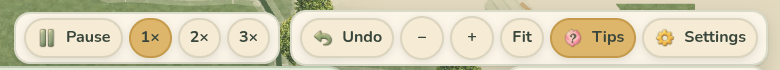
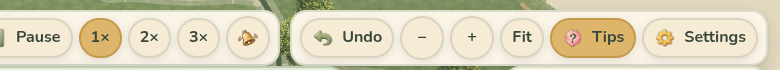
Sound controls: top-bar mute toggle (M), music and effects volume sliders, saved settings
- Settings gain muted, musicVolume and sfxVolume (0-100, clamped on load, defaulted for
  older saves). The audio engine applies levels to both buses; mute silences everything
  without touching the levels; the effects slider plays a sample on release.
- Speaker button in the top bar beside the speed buttons with aria-pressed and spoken
  labels; M toggles it.
- New strings in copy.json extra.sound and COPY.md; check_copy.py passes again.
- pointercheck: wait for frames after camera moves; DPR sharpness reported for item 5.

diff --git a/src/app/audio.ts b/src/app/audio.ts
@@ -77,6 +77,11 @@ export class AudioEngine {
   private useOgg = true;
   sound = true;
   music = true;
+  /** Top-bar mute: everything silent, slider levels kept. */
+  muted = false;
+  /** Slider levels, 0..1. */
+  sfxLevel = 0.8;
+  musicLevel = 0.8;
   paused = false;
   unlocked = false;
 
@@ -105,7 +110,7 @@ export class AudioEngine {
       this.master.gain.value = 0.9;
       this.master.connect(comp).connect(this.ctx.destination);
       this.sfxGain = this.ctx.createGain();
-      this.sfxGain.gain.value = this.sound ? 1 : 0;
+      this.sfxGain.gain.value = this.sfxTarget();
       this.sfxGain.connect(this.master);
       // Music: Sugar Belt's generative band on its own bus with a soft reverb return.
       this.musicGain = this.ctx.createGain();
@@ -127,9 +132,9 @@ export class AudioEngine {
       this.unlocked = true;
       void this.ctx.resume();
       // Fade the band in instead of starting at full level.
-      if (this.music) {
+      if (this.musicTarget() > 0) {
         this.musicGain.gain.setValueAtTime(0, this.ctx.currentTime);
-        this.musicGain.gain.linearRampToValueAtTime(MUSIC_LEVEL, this.ctx.currentTime + 4);
+        this.musicGain.gain.linearRampToValueAtTime(this.musicTarget(), this.ctx.currentTime + 4);
       }
       for (const k of ['ui_click', 'build_place', 'ui_error', 'deliver', 'item_pop'] as CueKey[]) void this.load(k);
     } catch {
@@ -156,7 +161,45 @@ export class AudioEngine {
   }
 
   private musicTarget(): number {
-    return this.music ? MUSIC_LEVEL * (this.paused ? MUSIC_PAUSED_SCALE : 1) : 0;
+    return this.music && !this.muted ? MUSIC_LEVEL * this.musicLevel * (this.paused ? MUSIC_PAUSED_SCALE : 1) : 0;
+  }
+
+  private sfxTarget(): number {
+    return this.sound && !this.muted ? this.sfxLevel : 0;
+  }
+
+  /** Push the current toggles and levels to both buses. */
+  private applyLevels(): void {
+    if (!this.ctx) return;
+    if (this.sfxGain) this.sfxGain.gain.setTargetAtTime(this.sfxTarget(), this.ctx.currentTime, 0.05);
+    if (this.musicGain) {
+      this.musicGain.gain.cancelScheduledValues(this.ctx.currentTime);
+      this.musicGain.gain.setTargetAtTime(this.musicTarget(), this.ctx.currentTime, 0.2);
+    }
+    if (this.sfxTarget() === 0) {
+      this.stopLoop('machine_working');
+      this.stopLoop('belt_tick');
+    }
+  }
+
+  /** The top-bar speaker: silence everything, keep the slider levels. */
+  setMuted(on: boolean): void {
+    const wasAudible = this.musicTarget() > 0;
+    this.muted = on;
+    this.applyLevels();
+    if (!wasAudible && this.musicTarget() > 0 && this.musicTrack && this.ctx) this.musicTrack.nextBarTime = this.ctx.currentTime + 0.3;
+  }
+
+  /** Slider levels, 0..1 each. */
+  setLevels(sfx: number, music: number): void {
+    this.sfxLevel = Math.max(0, Math.min(1, sfx));
+    this.musicLevel = Math.max(0, Math.min(1, music));
+    this.applyLevels();
+  }
+
+  /** A short sample at the current effects level (the slider plays it on release). */
+  preview(): void {
+    this.play('build_place', { throttleMs: 0 });
   }
 
   /** For tests and the console: is the band running, and where is it. */
@@ -199,11 +242,7 @@ export class AudioEngine {
 
   setSound(on: boolean): void {
     this.sound = on;
-    if (this.sfxGain && this.ctx) this.sfxGain.gain.setTargetAtTime(on ? 1 : 0, this.ctx.currentTime, 0.05);
-    if (!on) {
-      this.stopLoop('machine_working');
-      this.stopLoop('belt_tick');
-    }
+    this.applyLevels();
   }
 
   setMusic(on: boolean): void {
@@ -231,7 +270,7 @@ export class AudioEngine {
 
   play(key: CueKey, opts: { throttleMs?: number; delay?: number } = {}): void {
     if (!this.ctx || !this.sfxGain) return;
-    if (!this.sound) return;
+    if (!this.sound || this.muted) return;
     const now = performance.now();
     const throttle = opts.throttleMs ?? 40;
     if (now - (this.lastPlay.get(key) ?? -1e9) < throttle) return;

diff --git a/src/ui/SettingsModal.tsx b/src/ui/SettingsModal.tsx
@@ -1,4 +1,5 @@
 import { useCallback, useState } from 'react';
+import { audio } from '../app/audio';
 import { store } from '../app/store';
 import { COPY, EXTRA } from './strings';
 import { useFocusTrap } from './useFocusTrap';
@@ -13,6 +14,29 @@ function Toggle({ value, onChange, label, onName, offName }: { value: boolean; o
         {COPY.settings.off}
       </button>
     </div>
+  );
+}
+
+function Slider({ value, label, onChange, onRelease, testId }: { value: number; label: string; onChange: (v: number) => void; onRelease?: () => void; testId: string }) {
+  return (
+    <label className="slider">
+      <input
+        type="range"
+        min={0}
+        max={100}
+        step={1}
+        value={value}
+        aria-label={label}
+        aria-valuetext={`${value}`}
+        onChange={(e) => onChange(Number(e.currentTarget.value))}
+        onPointerUp={onRelease}
+        onKeyUp={onRelease}
+        data-testid={testId}
+      />
+      <span className="val" aria-hidden>
+        {value}
+      </span>
+    </label>
   );
 }
 
@@ -39,6 +63,20 @@ export function SettingsModal() {
             <div className="desc">{EXTRA.settings.musicHelp}</div>
           </div>
           <Toggle label={COPY.settings.music} onName={COPY.a11y.musicOn} offName={COPY.a11y.musicOff} value={s.music} onChange={(v) => store.updateSettings({ music: v })} />
+        </div>
+        <div className="setting">
+          <div>
+            <div>{EXTRA.sound.musicVolume}</div>
+            <div className="desc">{EXTRA.sound.musicVolumeHelp}</div>
+          </div>
+          <Slider label={EXTRA.sound.musicVolume} value={s.musicVolume} onChange={(v) => store.updateSettings({ musicVolume: v })} testId="music-volume" />
+        </div>
+        <div className="setting">
+          <div>
+            <div>{EXTRA.sound.sfxVolume}</div>
+            <div className="desc">{EXTRA.sound.sfxVolumeHelp}</div>
+          </div>
+          <Slider label={EXTRA.sound.sfxVolume} value={s.sfxVolume} onChange={(v) => store.updateSettings({ sfxVolume: v })} onRelease={() => audio.preview()} testId="sfx-volume" />
         </div>
         <div className="setting">
           <div>

diff --git a/e2e/smoke.spec.ts b/e2e/smoke.spec.ts
@@ -165,11 +165,23 @@ test.describe('Petalworks smoke', () => {
     await page.getByRole('radio', { name: 'Sound effects off', exact: true }).click();
     await page.getByRole('radio', { name: 'Music off', exact: true }).click();
     await page.getByRole('radio', { name: 'Reduced motion on', exact: true }).click();
+    // Volume sliders: set both, then the top-bar speaker mutes without touching them.
+    await page.getByTestId('music-volume').fill('40');
+    await page.getByTestId('sfx-volume').fill('25');
     await page.keyboard.press('Escape');
     await expect(page.getByTestId('settings-modal')).toHaveCount(0);
+    await expect(page.getByTestId('mute')).toHaveAttribute('aria-pressed', 'true');
+    await page.getByTestId('mute').click();
+    await expect(page.getByTestId('mute')).toHaveAttribute('aria-pressed', 'false');
+    await expect(page.getByTestId('mute')).toHaveAccessibleName(/Sound off/);
     await page.reload();
     await page.click('[data-testid="continue"]');
-    expect(await page.evaluate(() => (window as any).petalworks.ui.settings)).toMatchObject({ sound: false, music: false, reducedMotion: true });
+    expect(await page.evaluate(() => (window as any).petalworks.ui.settings)).toMatchObject({ sound: false, music: false, reducedMotion: true, muted: true, musicVolume: 40, sfxVolume: 25 });
+    await expect(page.getByTestId('mute')).toHaveAttribute('aria-pressed', 'false');
+    // M toggles the speaker back on and keeps the levels.
+    await page.keyboard.press('m');
+    await expect(page.getByTestId('mute')).toHaveAttribute('aria-pressed', 'true');
+    expect(await page.evaluate(() => (window as any).petalworks.ui.settings)).toMatchObject({ muted: false, musicVolume: 40, sfxVolume: 25 });
     expect(await page.evaluate(() => document.documentElement.getAttribute('data-reduced-motion'))).toBe('true');
 
     // Pause freezes the tick counter.

diff --git a/src/sim/save.ts b/src/sim/save.ts
@@ -16,6 +16,11 @@ export const BACKUP_KEY = 'petalworks.save.backup';
 export interface Settings {
   sound: boolean;
   music: boolean;
+  /** The top-bar speaker: silences everything without touching the levels below. */
+  muted: boolean;
+  /** 0-100 slider levels. */
+  musicVolume: number;
+  sfxVolume: number;
   reducedMotion: boolean;
   tutorialStep: number;
   tutorialDismissed: boolean;
@@ -26,6 +31,9 @@ export interface Settings {
 export const DEFAULT_SETTINGS: Settings = {
   sound: true,
   music: true,
+  muted: false,
+  musicVolume: 80,
+  sfxVolume: 80,
   reducedMotion: false,
   tutorialStep: 0,
   tutorialDismissed: false,
@@ -132,6 +140,10 @@ function pickSettings(u: Record<string, unknown>): Partial<Settings> {
   const out: Partial<Settings> = {};
   if (typeof u.sound === 'boolean') out.sound = u.sound;
   if (typeof u.music === 'boolean') out.music = u.music;
+  if (typeof u.muted === 'boolean') out.muted = u.muted;
+  const level = (v: unknown) => (typeof v === 'number' && Number.isFinite(v) ? Math.max(0, Math.min(100, Math.round(v))) : undefined);
+  if (level(u.musicVolume) !== undefined) out.musicVolume = level(u.musicVolume);
+  if (level(u.sfxVolume) !== undefined) out.sfxVolume = level(u.sfxVolume);
   if (typeof u.reducedMotion === 'boolean') out.reducedMotion = u.reducedMotion;
   if (typeof u.tutorialStep === 'number') out.tutorialStep = u.tutorialStep;
   if (typeof u.tutorialDismissed === 'boolean') out.tutorialDismissed = u.tutorialDismissed;

diff --git a/src/app/store.ts b/src/app/store.ts
@@ -221,8 +221,11 @@ export class GameStore {
   }
 
   private applyAudioSettings(): void {
-    audio.setSound(this.ui.settings.sound);
-    audio.setMusic(this.ui.settings.music);
+    const s = this.ui.settings;
+    audio.setLevels(s.sfxVolume / 100, s.musicVolume / 100);
+    audio.setMuted(s.muted);
+    audio.setSound(s.sound);
+    audio.setMusic(s.music);
     if (typeof document !== 'undefined') {
       document.documentElement.setAttribute('data-reduced-motion', this.ui.settings.reducedMotion ? 'true' : 'false');
     }
@@ -240,7 +243,7 @@ export class GameStore {
       cursor: null,
       paused: false,
       speed: 1,
-      settings: { ...DEFAULT_SETTINGS, sound: keep.sound, music: keep.music, reducedMotion: keep.reducedMotion },
+      settings: { ...DEFAULT_SETTINGS, sound: keep.sound, music: keep.music, muted: keep.muted, musicVolume: keep.musicVolume, sfxVolume: keep.sfxVolume, reducedMotion: keep.reducedMotion },
       tutorialOpen: true,
       completionOpen: false,
       settingsOpen: false,
@@ -555,6 +558,11 @@ export class GameStore {
 
   cycleSpeed(): void {
     this.setSpeed((this.ui.speed === 3 ? 1 : this.ui.speed + 1) as 1 | 2 | 3);
+  }
+
+  /** The top-bar speaker (and the M key). */
+  toggleMute(): void {
+    this.updateSettings({ muted: !this.ui.settings.muted });
   }
 
   updateSettings(patch: Partial<Settings>): void {

diff --git a/src/sim/sim.test.ts b/src/sim/sim.test.ts
@@ -525,6 +525,19 @@ describe('save and load', () => {
     expect(JSON.stringify(loaded.sim.world)).toBe(JSON.stringify(sim.world));
   });
 
+  it('keeps the mute and the two volume levels, clamped to 0-100, and defaults them when missing', () => {
+    const sim = rich();
+    const loaded = deserialize(serialize(sim, { ...DEFAULT_SETTINGS, muted: true, musicVolume: 40, sfxVolume: 250 }, 0));
+    expect(loaded.ok && loaded.settings).toMatchObject({ muted: true, musicVolume: 40, sfxVolume: 100, sound: true, music: true });
+    // An older save without the new keys gets the defaults.
+    const file = JSON.parse(serialize(sim, DEFAULT_SETTINGS, 0));
+    delete file.settings.muted;
+    delete file.settings.musicVolume;
+    file.settings.sfxVolume = 'loud';
+    const older = deserialize(JSON.stringify(file));
+    expect(older.ok && older.settings).toMatchObject({ muted: false, musicVolume: 80, sfxVolume: 80 });
+  });
+
   it('restores a completed (sandbox) save', () => {
     const sim = rich();
     sim.world.orders = { activeId: null, offeredIds: [], completedIds: ORDERS.map((o) => o.id), progress: { orderId: null, delivered: {} } };

diff --git a/src/ui/TopBar.tsx b/src/ui/TopBar.tsx
@@ -56,6 +56,18 @@ export function TopBar({ onRecenter, onZoom }: { onRecenter: () => void; onZoom:
             {fmt(EXTRA.hud.speedN, { n: s })}
           </button>
         ))}
+        <button
+          className={'btn icon' + (ui.settings.muted ? ' muted' : '')}
+          onClick={() => store.toggleMute()}
+          onPointerEnter={hover}
+          aria-label={ui.settings.muted ? EXTRA.sound.a11yOff : EXTRA.sound.a11yOn}
+          aria-pressed={!ui.settings.muted}
+          title={EXTRA.sound.tooltip}
+          data-testid="mute"
+        >
+          <Icon k={ui.settings.muted ? 'ui.sound.off' : 'ui.sound.on'} size={22} alt="" />
+          <span className="sr-only">{ui.settings.muted ? EXTRA.sound.off : EXTRA.sound.on}</span>
+        </button>
       </div>
       <div className="card group">
         <button className="btn" onClick={() => store.dispatch({ type: 'undo' })} onPointerEnter={hover} aria-label={COPY.a11y.undo} title={COPY.hud.undoTooltip} data-testid="undo">

diff --git a/src/ui/styles.css b/src/ui/styles.css
@@ -297,3 +297,10 @@ button:focus-visible, [tabindex]:focus-visible, input:focus-visible, a:focus-vis
 .loading-bar { height: 10px; border-radius: 5px; background: rgba(57, 70, 59, 0.12); overflow: hidden; border: 1px solid rgba(57, 70, 59, 0.15); }
 .loading-bar > span { display: block; height: 100%; background: var(--moss); transition: width 120ms linear; }
 .loading-text { font-size: 14px; color: var(--ink-soft); margin-top: 6px; }
+
+/* ---- sound controls ---- */
+.btn.muted img { opacity: 0.55; }
+.btn.muted { background: var(--cream-deep); }
+.slider { display: inline-flex; align-items: center; gap: 8px; }
+.slider input[type='range'] { width: 150px; accent-color: var(--honey-deep); cursor: pointer; }
+.slider .val { min-width: 30px; text-align: right; font-weight: 800; font-variant-numeric: tabular-nums; }

diff --git a/src/ui/strings.ts b/src/ui/strings.ts
@@ -225,6 +225,17 @@ export const EXTRA_FALLBACK = {
     ['Home', 'Fit the garden'],
     ['H', 'Tips'],
   ] as const,
+  sound: {
+    musicVolume: 'Music volume',
+    musicVolumeHelp: 'How loud the tune plays.',
+    sfxVolume: 'Sound effects volume',
+    sfxVolumeHelp: 'Let go of the slider to hear a sample.',
+    on: 'Sound on',
+    off: 'Sound off',
+    tooltip: 'Sound on or off (M)',
+    a11yOn: 'Sound on. Press to mute the music and effects.',
+    a11yOff: 'Sound off. Press to hear the music and effects again.',
+  },
 };
 
 /** Leftover UI strings. copy.json `extra` wins; a missing key keeps EXTRA_FALLBACK. */

diff --git a/src/ui/App.tsx b/src/ui/App.tsx
@@ -135,6 +135,9 @@ export function App() {
         case 'p':
           store.togglePause();
           break;
+        case 'm':
+          store.toggleMute();
+          break;
         case 'f':
           store.cycleSpeed();
           break;

diff --git a/docs/content/check_copy.py b/docs/content/check_copy.py
@@ -198,6 +198,15 @@ EXTRA_LEAF_PATHS = (
     'extra.controlsExtra[9][1]',
     'extra.controlsExtra[10][0]',
     'extra.controlsExtra[10][1]',
+    'extra.sound.musicVolume',
+    'extra.sound.musicVolumeHelp',
+    'extra.sound.sfxVolume',
+    'extra.sound.sfxVolumeHelp',
+    'extra.sound.on',
+    'extra.sound.off',
+    'extra.sound.tooltip',
+    'extra.sound.a11yOn',
+    'extra.sound.a11yOff',
 )
 
 EXTRA_TOKENS: dict[str, set[str]] = {

diff --git a/producer/STATUS.md b/producer/STATUS.md
@@ -16,7 +16,8 @@
 
 ## Round of Nov 2, 00:50 (Allie's playtest: belts, size jump, overlap)
 - **Belts fixed (playtest item 1).** Every placed building popped in with a scale tween that ended at scale 1, which is the raw 2x art, so each belt tile was drawn two tiles wide and the next tile's corner or straight piece showed on top of it ("straight and turning at the same time"). The pop-in now ends at the tile size, and the view sizes a building only after its real sprite is loaded. Each belt tile shows exactly one piece (straight, clockwise corner, counter-clockwise corner, or an end stop on a dead end) chosen from its neighbors by `src/game/beltPiece.ts`, which has a unit test for all four rotations of each piece, merges, and every feeder combination. `tools/beltloop.mjs` lays two rings by dragging (one each way), a side merge, a rotated belt and a removed mid-line belt, then checks every belt tile draws one 64 px piece. Screenshot 18 shows both loops.
-- The same bug made placed machines bigger than their ghost (item 2) and made neighbors look overlapped (item 4); both are covered by scripted checks in the next step.
+- **Overlap on big screens and placement size (items 4 and 2).** Every building takes exactly one tile in the simulation, and `canPlace` refuses any occupied tile; a new unit test rings a machine with beds and machines on all eight sides and checks every kind, through both the single-place and the dragged-belt paths, is refused on every full tile. What Allie's husband saw was the drawing bug above: a placed machine painted two tiles wide looked like it sat on its neighbor. `tools/pointercheck.mjs` now drives the real mouse at 1920x1080, 2560x1440 and 3840x2160, at 1x and 2x device pixel ratio, at three zoom levels: the hovered tile matches the tile under the pointer (center and near-corner points), the ghost sits on that tile, the placed building ends exactly the ghost's size, and a second click on a full tile changes nothing. All six combinations pass (the canvas is not yet DPR-sharp at 2x; that is item 5, next).
+- **Sound controls (item 3).** A speaker button sits in the top bar next to the speed buttons (also the M key): it mutes music and effects together, shows a clear off state, is keyboard reachable with a spoken label, and is remembered between sessions. Settings has two sliders, Music volume and Sound effects volume (0 to 100), saved with the other settings; letting go of the effects slider plays a short sample at the new level. Muting never changes the slider levels. New strings live in `docs/content/copy.json` under `extra.sound` (and in COPY.md); `check_copy.py` passes again (it had been failing on the reworded Open Plot line). Unit test for the saved levels (clamped, defaulted for older saves) and the e2e settings test cover it.
 
 ## Round of Nov 1, 20:47 (Sugar Belt music, irregular plot)
 - **Music is now Allie's Sugar Belt soundtrack**, ported as `src/app/music.ts` and generated with Web Audio at runtime (music box, marimba, lo-fi keys and breathers over gentle progressions, modulating between keys). It starts on the first click with a 4 s fade, the music toggle and pause fade work as before, a hidden tab suspends it, and the arrangement fills out as the factory grows (machines and items on belts raise the intensity). No music file is downloaded any more: `assets/audio/music.*` stay as the audio team's source but are not loaded, and the lighter copies are gone. `tools/music-check.mjs` renders it offline: peak −11 dBFS, RMS −28 dBFS, no clipping, no silences, which matches the Sugar Belt preview recording (peak −10.4, mean −26.8).
